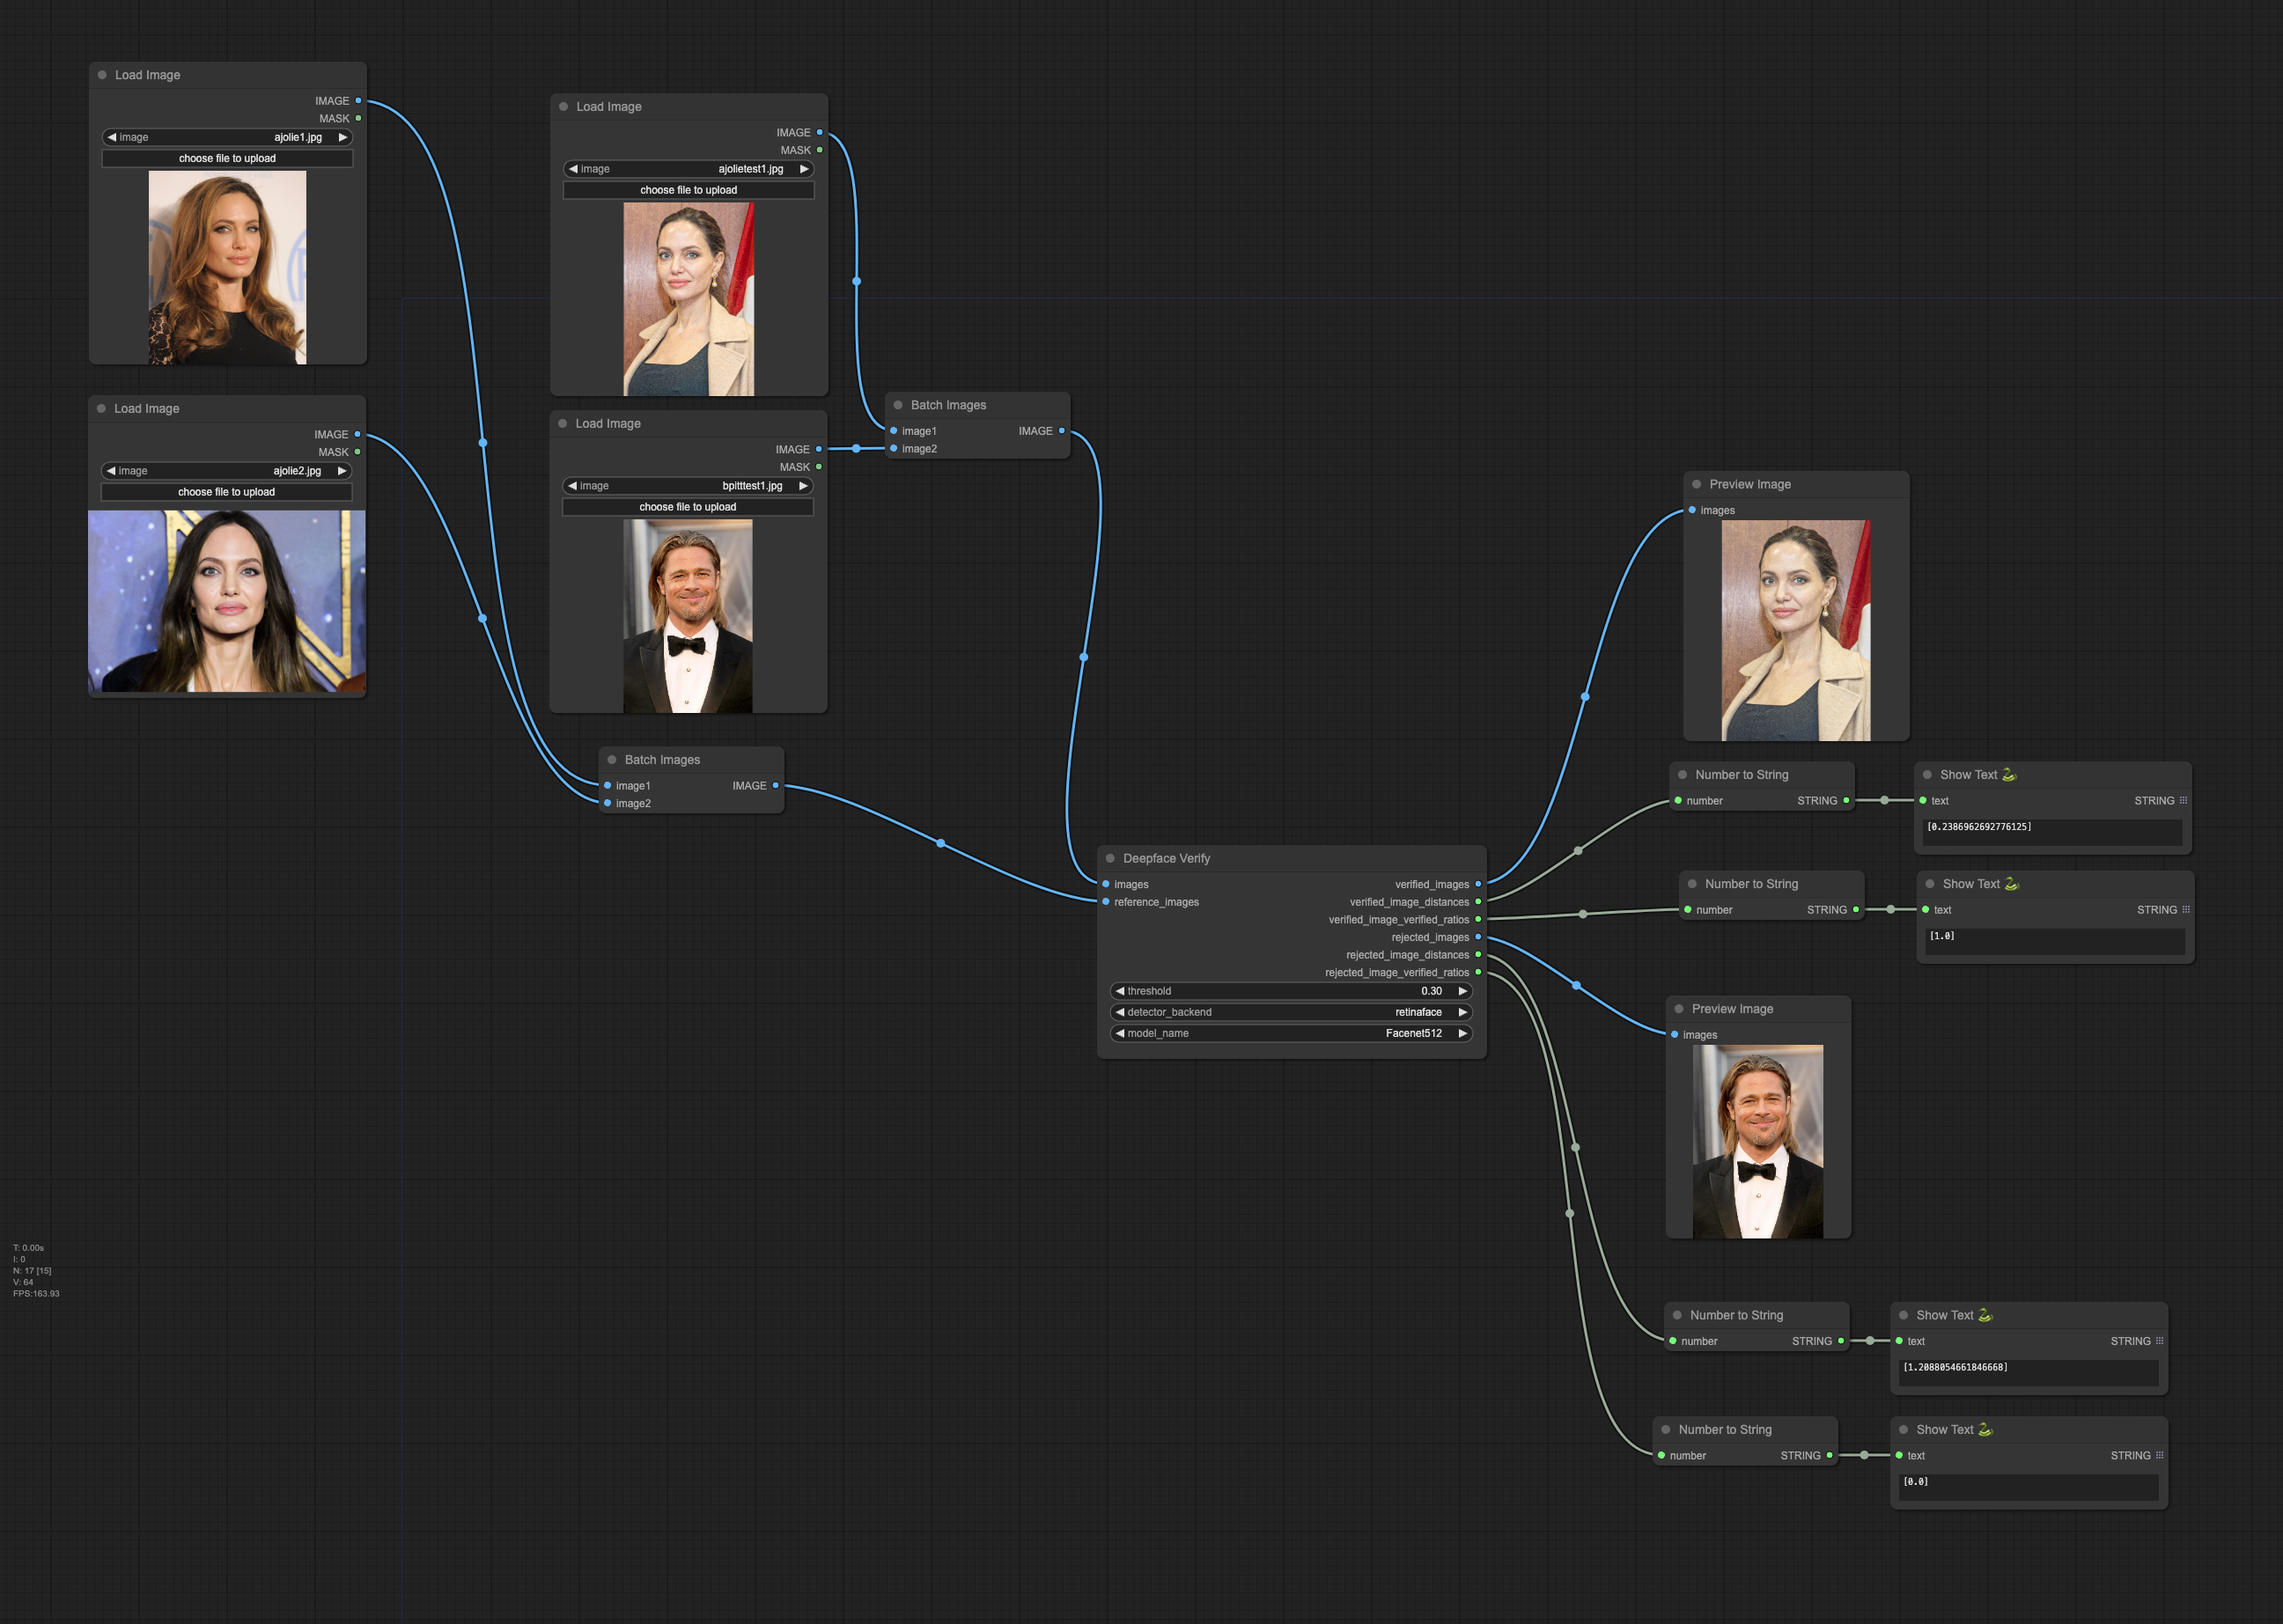
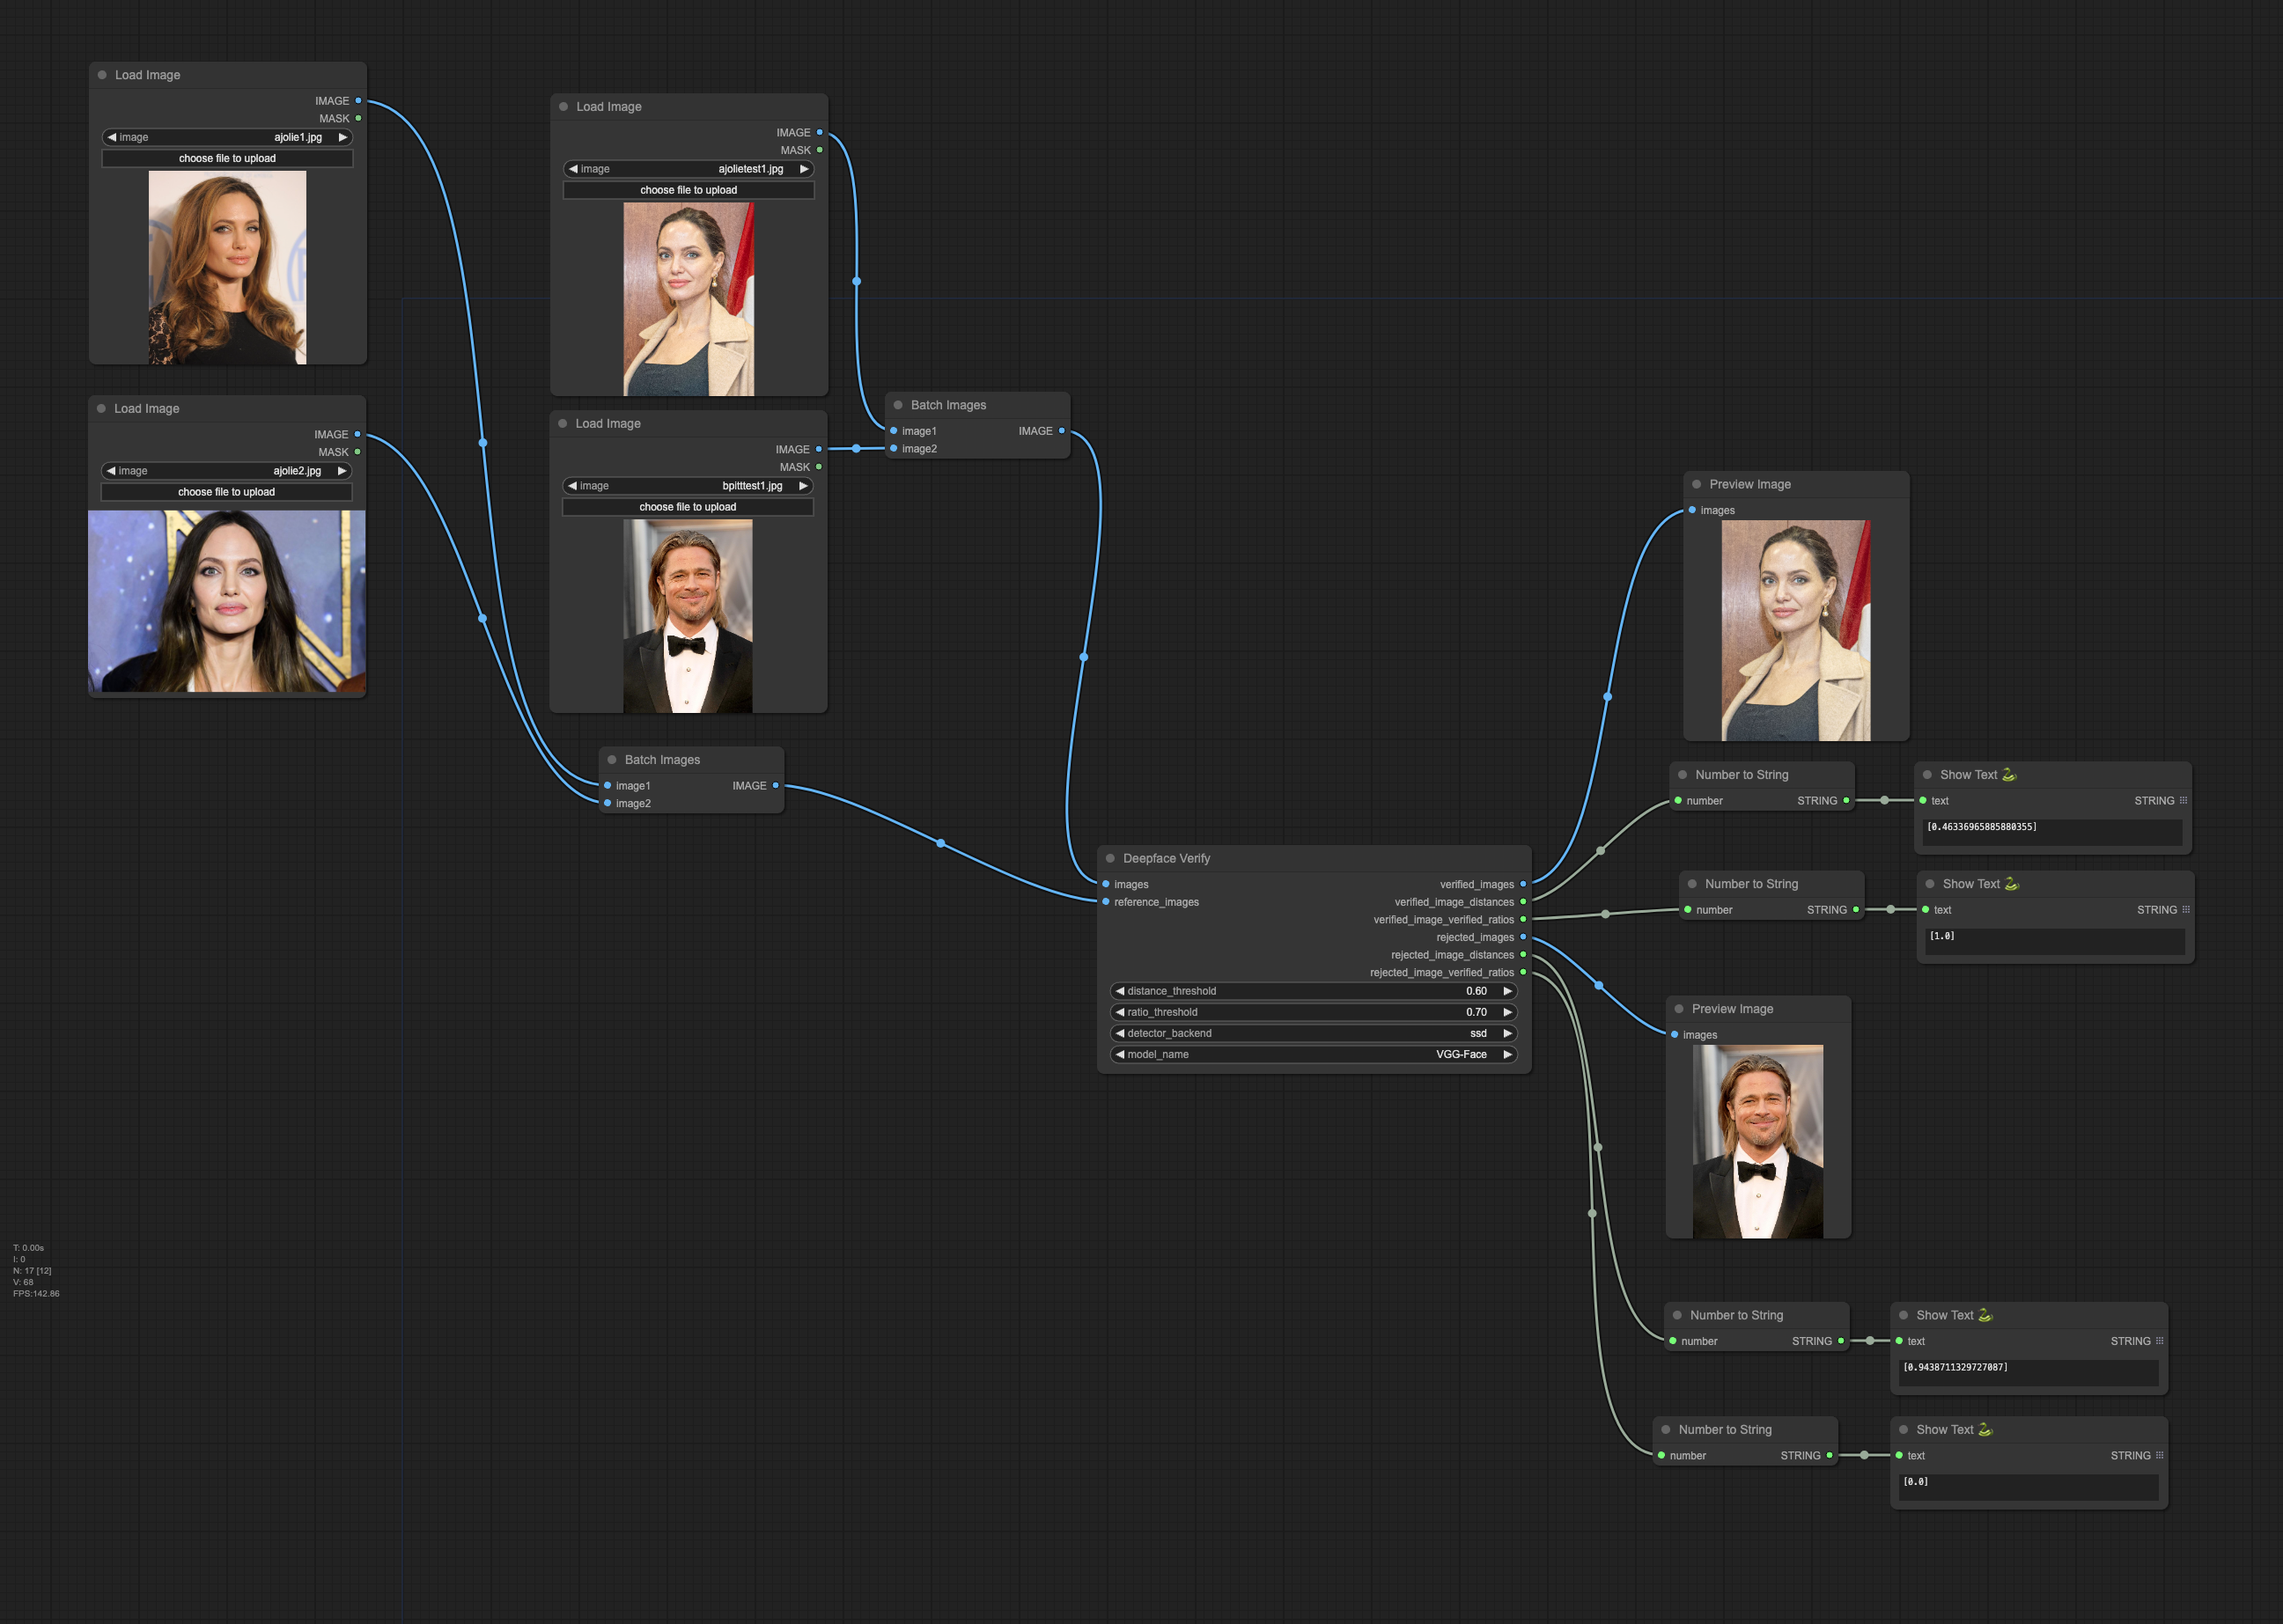
Add separate ratio threshold; example workflow for none-type handling; update documentation

diff --git a/nodes.py b/nodes.py
@@ -92,8 +92,15 @@ class DeepfaceVerifyNode:
             "required": {
                 "images": ("IMAGE",),
                 "reference_images": ("IMAGE",),
-                "threshold": ("FLOAT", {
-                    "default": 0.3,
+                "distance_threshold": ("FLOAT", {
+                    "default": 0.6,
+                    "display": "number",
+                    "minimum": 0.0,
+                    "maximum": 1.0,
+                    "step": 0.01,
+                }),
+                "ratio_threshold": ("FLOAT", {
+                    "default": 0.7,
                     "display": "number",
                     "minimum": 0.0,
                     "maximum": 1.0,
@@ -110,7 +117,7 @@ class DeepfaceVerifyNode:
                      "yunet",
                      "fastmtcnn",
                 ], {
-                    "default": "retinaface",
+                    "default": "ssd",
                 }),
                 "model_name": ([
                      "VGG-Face",
@@ -123,7 +130,7 @@ class DeepfaceVerifyNode:
                      "Dlib",
                      "SFace",
                 ], {
-                    "default": "Facenet512",
+                    "default": "VGG-Face",
                 }),
             },
         }
@@ -142,7 +149,7 @@ class DeepfaceVerifyNode:
 
     CATEGORY = "deepface"
 
-    def run(self, images, reference_images, threshold, detector_backend, model_name):
+    def run(self, images, reference_images, distance_threshold, ratio_threshold, detector_backend, model_name):
         deepface_reference_images = []
         for reference_image in reference_images:
             deepface_reference_images.append(deepface_image_from_comfy_image(reference_image))
@@ -183,7 +190,7 @@ class DeepfaceVerifyNode:
             verified_ratio = round(verified_images_count / len(deepface_reference_images), 2)
             print(f"Average distance: { average_distance } ({ verified_ratio } verified)")
 
-            if average_distance < threshold:
+            if average_distance < distance_threshold and verified_ratio > ratio_threshold:
                 verified_image_tuples.append((image, average_distance, verified_ratio))
             else:
                 rejected_image_tuples.append((image, average_distance, verified_ratio))

diff --git a/README.md b/README.md
@@ -21,15 +21,22 @@ Given a set of input images and a set of reference (face) images, only output th
 to the faces in the reference images less than or equal to the specified threshold. Output images are sorted by average 
 distance to the reference image faces (nearest first).
 
+In addition to distance, outputs include the ratio of reference images that each input image was verified to be a 
+face match of, according to the default distance threshold of the model selected. This measure complements the average 
+distance measure, as there may be one image that is very close (small distance), despite the input image not being a 
+great match against all reference images.
+
 Both inputs accept image batches.
 
 - Outputs:
-  - `verified_images` images that contain faces below the threshold, sorted from smallest distance to largest
+  - `verified_images` images that contain faces below the distance threshold and above the ratio threshold, sorted from smallest distance to largest
   - `verified_image_distances` numbers of the average distance from the input image face to each reference image face
-  - `verified_image_verified_ratios` the ratio of reference images that deepface marks as "verified" to the total number of reference images. As far as I can tell, deepface sets "verified" to true for distances under 0.3, but this might vary per detector.
-  - `rejected_images` images that contain faces above (or equal to) the threshold value for distance, sorted from smallest distance to largest
+  - `verified_image_verified_ratios` the ratio of reference images that deepface marks as "verified" to the total number of reference images
+  - `rejected_images` images that contain faces above (or equal to) the distance threshold or below the ratio threshold, sorted from smallest distance to largest
   - `rejected_image_distances` numbers of the average distance from the input image face to each reference image face
-  - `rejected_image_verified_ratios` the ratio of reference images that deepface marks as "verified" to the total number of reference images. As far as I can tell, deepface sets "verified" to true for distances under 0.3, but this might vary per detector.
+  - `rejected_image_verified_ratios` the ratio of reference images that deepface marks as "verified" to the total number of reference images
+
+Note that any individual output may be `None` if there are no input images matching the criteria.
 
 ![verify workflow](./workflows/verify.png)
 
@@ -37,6 +44,11 @@ Nodes from [was-node-suite-comfyui](https://github.com/WASasquatch/was-node-suit
 [pythongosssss](https://github.com/pythongosssss/ComfyUI-Custom-Scripts) can be used to display the output distances:
 
 ![verify with distances workflow](./workflows/verify-with-distances.png)
+
+ComfyUI's built-in PreviewImage and SaveImage nodes do not handle empty/None inputs, [ComfyUI-Impact-Pack](https://github.com/ltdrdata/ComfyUI-Impact-Pack)
+provides nodes that can be used to handle empty/None outputs in conjunction with PreviewImage/SaveImage:
+
+![verify with none-handling workflow](./workflows/verify-with-none-handling.png)
 
 # Credits
 
